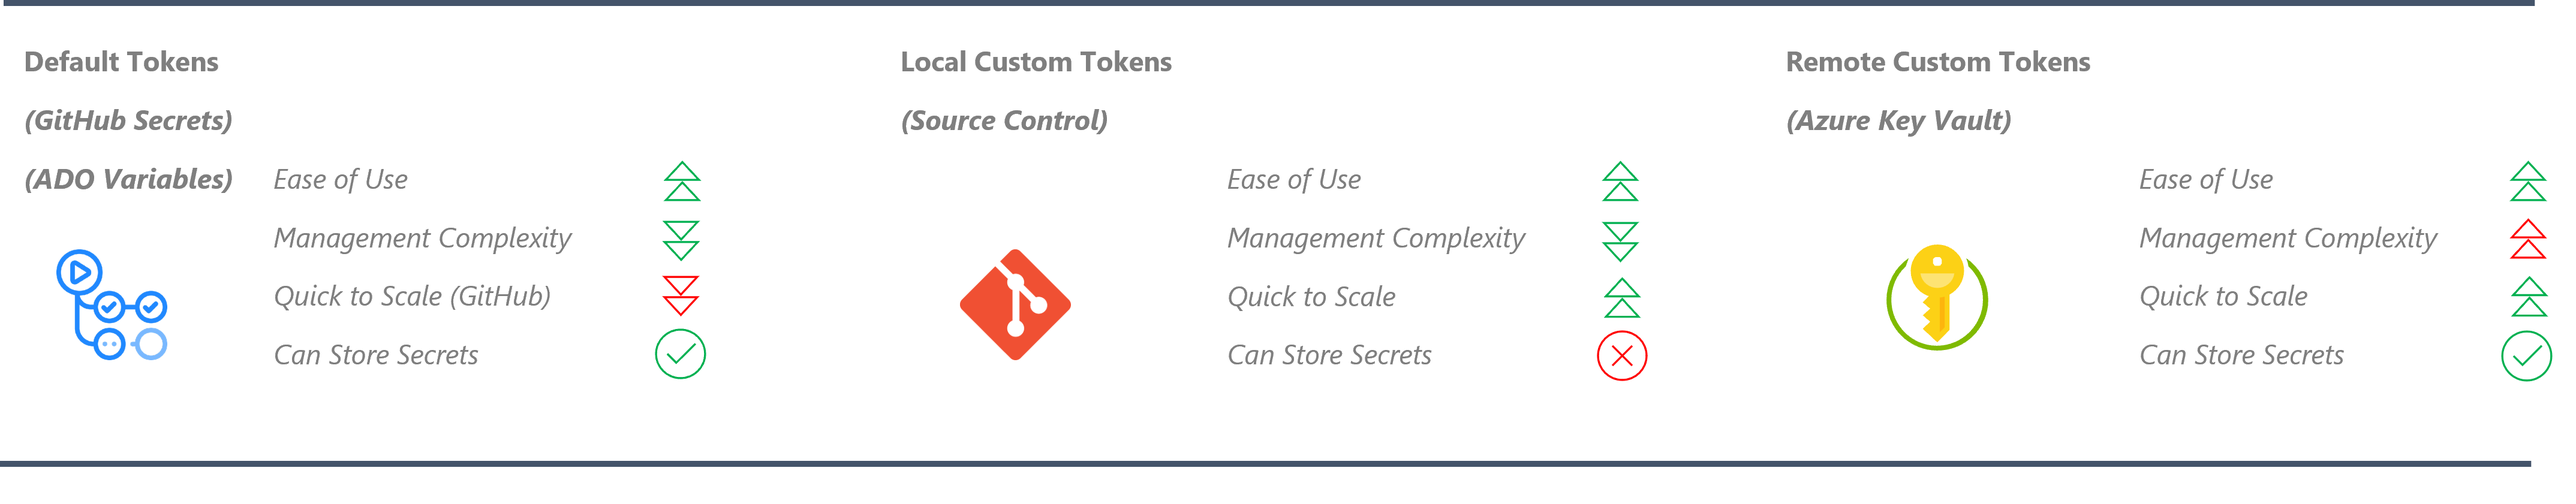
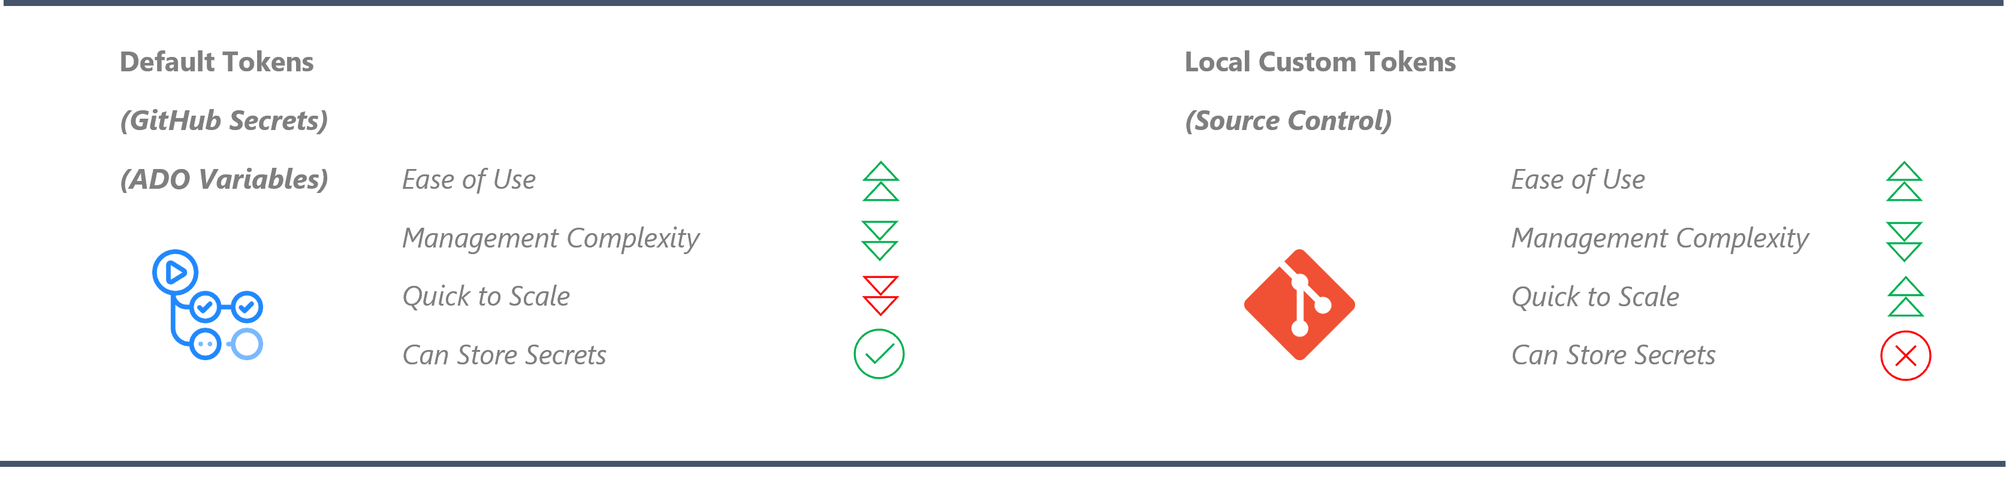
updates

diff --git a/docs/wiki/ParameterFileTokens.md b/docs/wiki/ParameterFileTokens.md
@@ -52,29 +52,40 @@ These are tokens defined in the Git Repository inside a [Settings.json](https://
 
 ---
 
+The below image compares the different token types that can be used for parameter file tokens:
+
+<img src="./media/tokenTypes.png" alt="tokenTypes">
+
 ### How Tokens are replaced in a Parameter File
 
 The below diagram illustrates the Token Replacement Functionality via the [Validate](https://github.com/Azure/ResourceModules/blob/main/.github/actions/templates/validateModuleDeploy/action.yml) and [Deploy](https://github.com/Azure/ResourceModules/blob/main/.github/actions/templates/deployModule/action.yml) Actions/Templates.
 
-<img src="./media/paramFileTokenGetTokens.jpg" alt="paramFileTokenGet">
+<img src="./media/tokenReplacement.png" alt="tokenReplacement">
 
-1- The user creates local custom Parameter File Tokens in the [Settings.json](https://github.com/Azure/ResourceModules/blob/main/settings.json) under the `localTokens` - `tokens` property.
+1A. The user creates default tokens as [GitHub Secrets](https://docs.github.com/en/actions/security-guides/encrypted-secrets#creating-encrypted-secrets-for-a-repository) or [Azure DevOps Pipeline Variables](https://docs.microsoft.com/en-us/azure/devops/pipelines/library/?view=azure-devops), which can be fed into workflows and pipelines as environment variables. </br>
+1B. The user can also create local custom Parameter File Tokens in the [Settings.json](https://github.com/Azure/ResourceModules/blob/main/settings.json) under the `localTokens` - `tokens` property. </br>
+2. The parameter files can now be tokenized as per required value. And the token format can look like `<<tokenName>>`. Example:
 
-2- The parameter files can now be tokenized as per required value. And the token format can look like `<<tokenName>>`. Example:
-
-  ```json
-  "adminPassword": {
-    "reference": {
-        "keyVault": {
-            "id": "/subscriptions/<<subscriptionId>>/resourceGroups/platform-core-rg/providers/Microsoft.KeyVault/vaults/<<exampleLocalToken>>-keyVault"
-        },
-        "secretName": "<<exampleLocalToken>>"
-    }
+```json
+"adminPassword": {
+  "reference": {
+      "keyVault": {
+          "id": "/subscriptions/<<subscriptionId>>/resourceGroups/validation-rg/providers/Microsoft.KeyVault/vaults/<<exampleLocalToken>>-keyVault"
+      },
+      "secretName": "<<exampleLocalToken>>"
   }
-  ```
+}
+```
+3A. The Replace Tokens function gets the default tokens from the environment variables. </br>
+> Default Tokens are explicitly defined in the task to which environment variables are retrieved, and requires updating this task for new tokens. </br>
 
-3- The user runs the modules workflow/pipeline, either from their remote branch or main branch so that it triggers the regular module deployment process.
+3B. The Replace Tokens function gets local custom tokens from the [Settings.json](https://github.com/Azure/ResourceModules/blob/main/settings.json).  </br>
+> Local Tokens are easier to scale as you just need to define them in this file without adding new environment variables or modifying workflows or tasks. </br>
 
-4- The tokens will be retrieved at runtime and replaced with the original values before handed over to the validation or deployment task/step.
+3C. The Replace Tokens function gets the Module Parameter file (tokenized and not deployable) and then all tokens are processed for replacement. </br>
 
-5- The Validate/Deploy task will consume the modified parameter files with the required values in order to validate/deploy the Azure resource.
+3D. The updated Module Parameter file is then saved, replacing the tokenized version. This file is now 'deployable'. </br>
+
+4A- The Validate/Deploy function retrieves the latest updated module Parameter file. </br>
+
+4B- The Validate/Deploy function validates the deployment artifacts for the module before deploying it to the Azure Sandbox Subscription. </br>
